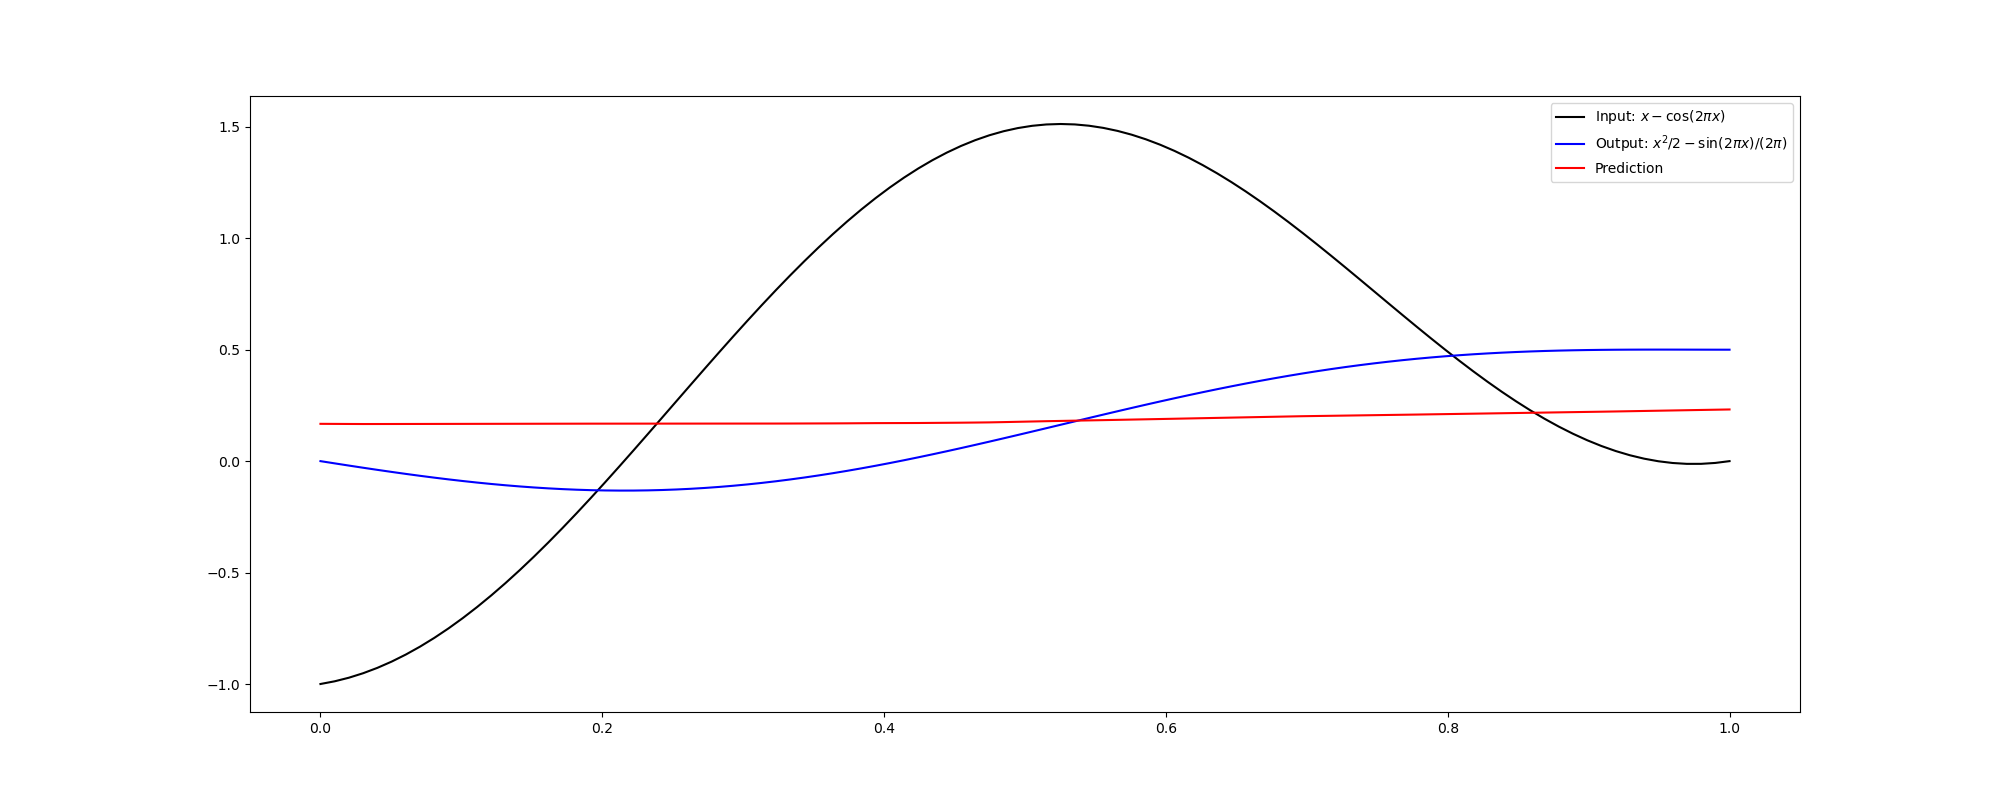
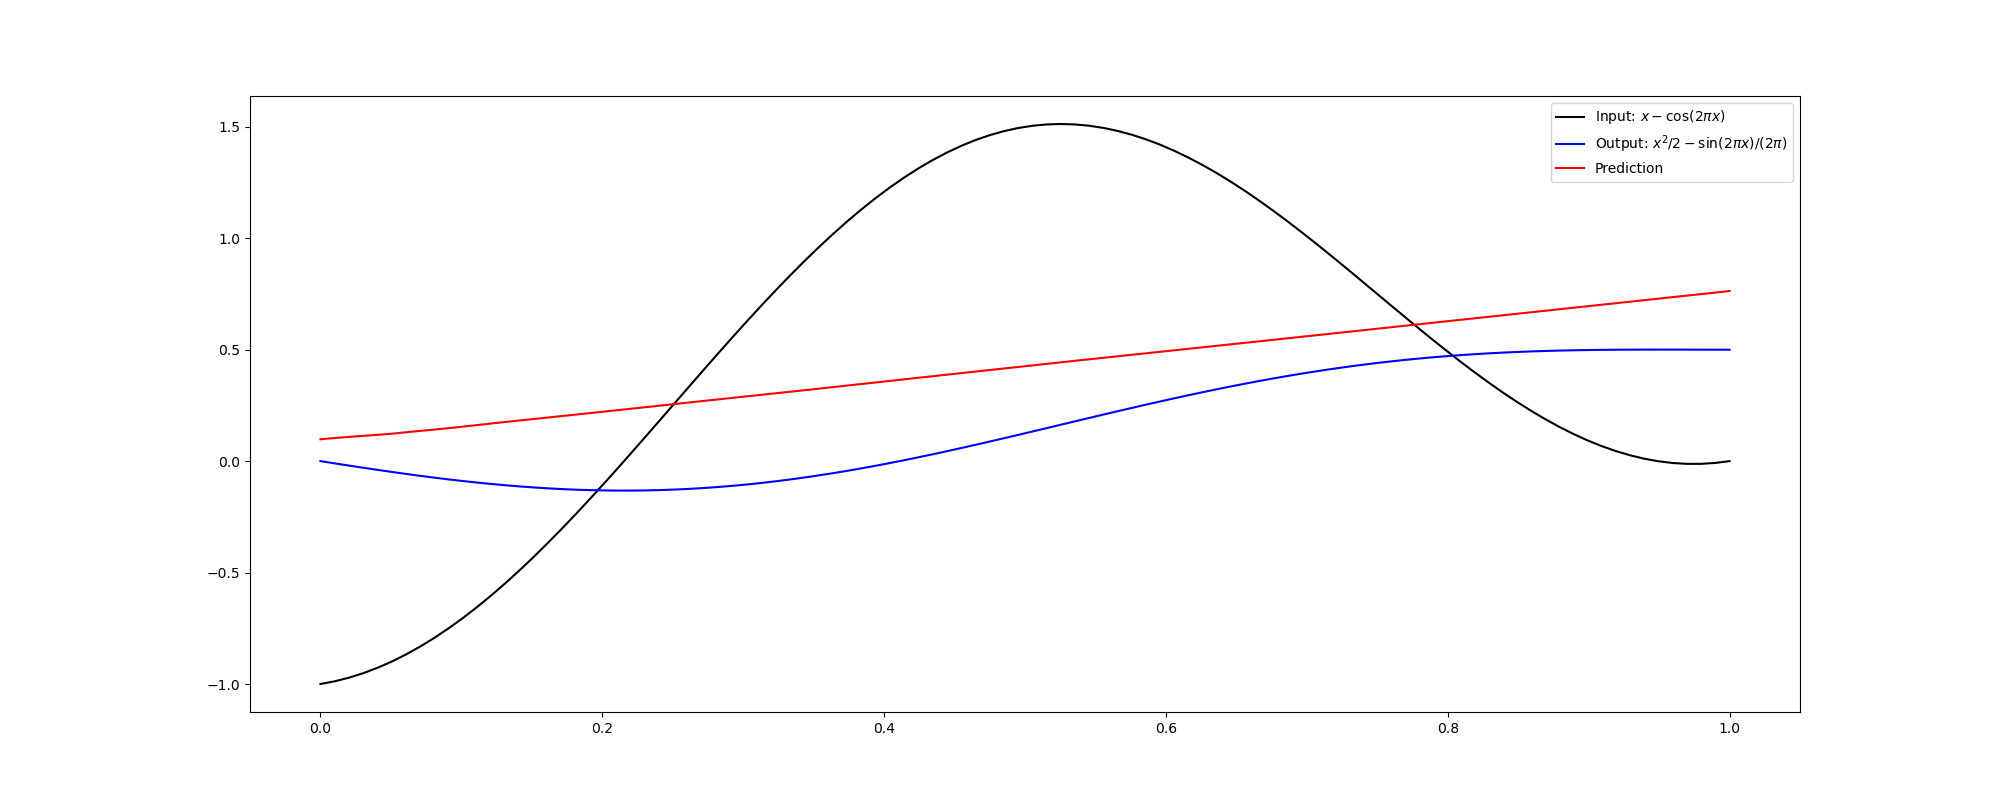
deeponet bugers for initial

diff --git a/DeepONet_Burgers/predict.py b/DeepONet_Burgers/predict.py
@@ -1,0 +1,40 @@
+import numpy as np
+import torch.backends.cudnn
+
+from dataset import IntegralData
+from trainer import Trainer
+from utils import get_device, to_tensor, to_numpy
+
+device = get_device()
+
+
+# Compute relative l2 error over N test samples.
+def compute_error(trainer, u, y, s):
+    u_test, y_test, s_test = to_tensor(u), to_tensor(y), to_tensor(s)
+
+    # Predict the solution and the residual
+    s_pred = trainer.predict(u_test, y_test)[:, None]
+
+    # Compute relative l2 error
+    error_s = np.linalg.norm(to_numpy(s_test) - to_numpy(s_pred)) / np.linalg.norm(to_numpy(s_test))
+
+    return error_s
+
+
+if __name__ == '__main__':
+    # data
+    data = IntegralData()
+    X_test, y_test = data.X_test, data.y_test
+
+    # model
+    model = torch.load('result/model_final.pkl').to(device)
+
+    # trainer
+    trainer = Trainer()
+    trainer.model = model
+
+    # compute_error
+    error_s = compute_error(trainer, u=X_test[0], y=X_test[1], s=y_test)
+
+    print('mean of relative L2 error of s: {:.2e}'.format(error_s.mean()))
+    print('std of relative L2 error of s: {:.2e}'.format(error_s.std()))

diff --git a/DeepONet_Burgers/dataset.py b/DeepONet_Burgers/dataset.py
@@ -1,11 +1,10 @@
 import numpy as np
-import torch
 from scipy import interpolate
 from scipy.integrate import solve_ivp
 from sklearn import gaussian_process as gp
 from torch.utils import data
 
-from utils import get_device
+from utils import get_device, to_tensor
 
 
 class IntegralData():
@@ -73,11 +72,6 @@ class DataGenerator(data.Dataset):
         inputs, outputs = self.__data_generation()
         return inputs, outputs
 
-    def __to_tensor(self, x):
-        if not isinstance(x, torch.Tensor):
-            x = torch.tensor(x, dtype=torch.float32, device=self.device)
-        return x
-
     def __data_generation(self):
         'Generates data containing batch_size samples'
         idx = np.random.choice(self.N, (self.batch_size,), replace=False)
@@ -86,8 +80,8 @@ class DataGenerator(data.Dataset):
         s = self.s[idx, :]
 
         # Construct batch
-        inputs = (self.__to_tensor(u), self.__to_tensor(y))
-        outputs = self.__to_tensor(s)
+        inputs = (to_tensor(u), to_tensor(y))
+        outputs = to_tensor(s)
 
         return inputs, outputs
 

diff --git a/DeepONet_Burgers/plot_result.py b/DeepONet_Burgers/plot_result.py
@@ -3,7 +3,7 @@ import torch
 from matplotlib import pyplot as plt
 
 from trainer import Trainer
-from utils import get_device
+from utils import get_device, to_numpy, to_tensor
 
 device = get_device()
 
@@ -17,10 +17,10 @@ def plot(trainer):
 
     u_star = np.tile(out, (len(y), 1))
     y_star = y[:, None]
-    u_star = torch.tensor(u_star, dtype=torch.float, device=device)
-    y_star = torch.tensor(y_star, dtype=torch.float, device=device)
-    # antide_pred = trainer.predict([np.tile(out, (len(y), 1)), y[:, None]], returnnp=True).squeeze()
-    antide_pred = trainer.predict(u_star, y_star).cpu().detach().numpy()
+    u_star, y_star = to_tensor(u_star), to_tensor(y_star)
+
+    antide_pred = trainer.predict(u_star, y_star)
+    antide_pred = to_numpy(antide_pred)
 
     plt.figure(figsize=(20, 8))
     plt.plot(x, out, color='black', label=r'Input: $x-\cos(2\pi x)$', zorder=0)

diff --git a/DeepONet_Burgers/utils.py b/DeepONet_Burgers/utils.py
@@ -40,3 +40,15 @@ def weights_init_xavier_normal(m):
         nn.init.xavier_normal_(m.weight)
         if m.bias is not None:
             nn.init.constant_(m.bias, 0.0)
+
+
+def to_tensor(x):
+    if not isinstance(x, torch.Tensor):
+        x = torch.tensor(x, dtype=torch.float32, device=get_device())
+    return x
+
+
+def to_numpy(x):
+    if isinstance(x, torch.Tensor):
+        x = x.cpu().detach().numpy()
+    return x

diff --git a/DeepONet_Burgers/main.py b/DeepONet_Burgers/main.py
@@ -6,9 +6,6 @@ import torch.backends.cudnn
 
 from dataset import IntegralData, DataGenerator
 from trainer import Trainer
-from utils import get_device
-
-device = get_device()
 
 
 def init_random_state():
@@ -30,6 +27,7 @@ if __name__ == '__main__':
 
     if not torch.cuda.is_available():
         nIter = 10
+        print("use cpu!!!")
 
     data = IntegralData()
     X_train, y_train = data.X_train, data.y_train
